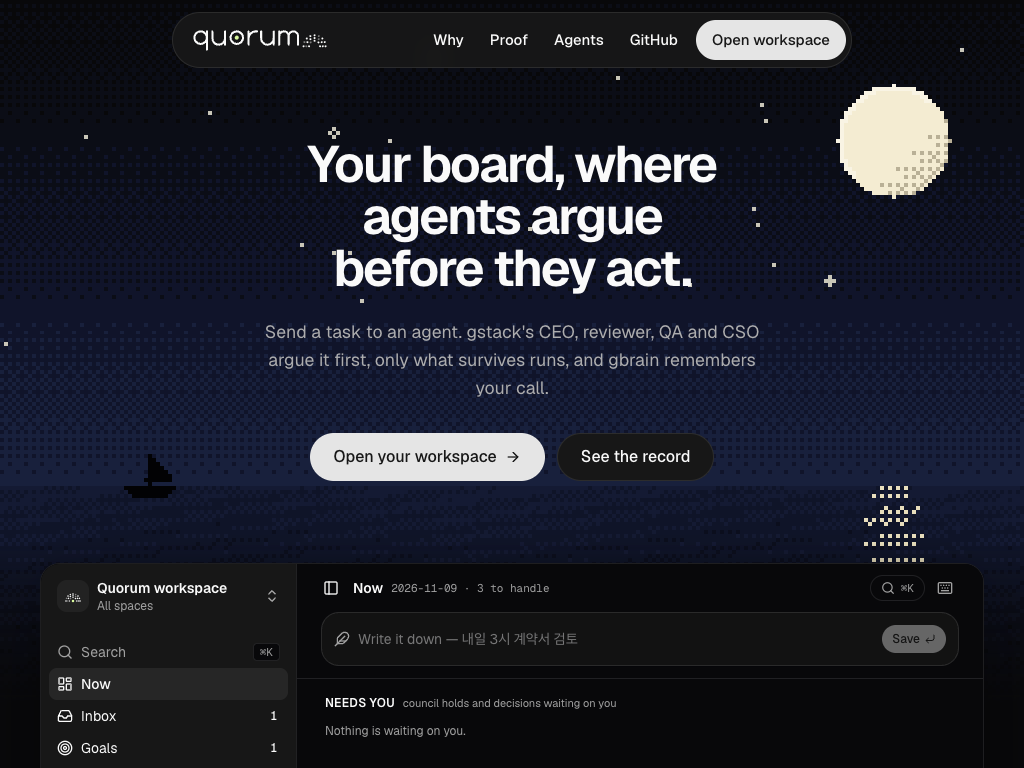
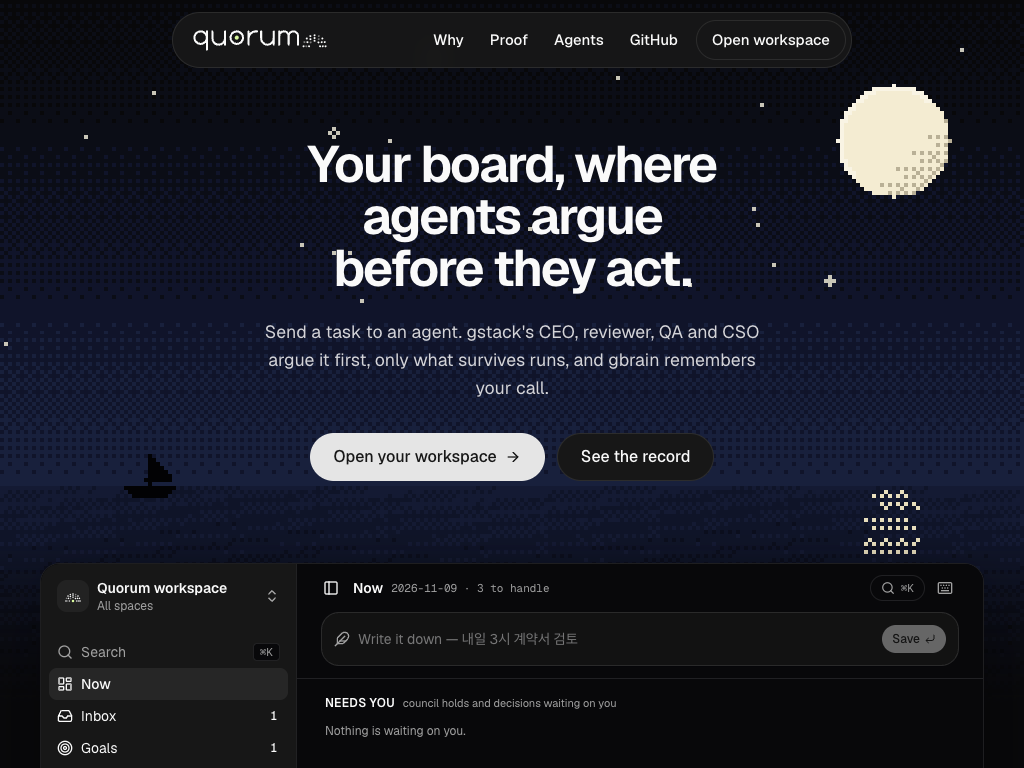
site: design review round 1 fixes: steps visible on phones, exact record numbers, one-tone recipe card, single ink CTA per viewport, tighter story runway, film beside the numbers

diff --git a/site/web/src/landing/healing.tsx b/site/web/src/landing/healing.tsx
@@ -1,42 +1,44 @@
-import { cn } from "@/lib/utils"
+import { CHIP } from "@/workspace/tone"
+
+// tone.ts LATE is red-400, tuned for the dark-only workspace; on the light landing it fails AA, so the landing uses
+// red-700 in light and red-400 in dark (measured by docs/design/audit/a11y.cjs).
+const LATE = "text-red-700 dark:text-red-400"
 
 // The luma-blasts recipe (src/recipes/defs/luma-blasts.json): v1 called event/get-posts, which now 404s.
 // The repair path below follows lane/recipes: detect, recall past repairs, re-explore in Aside, validate, save v2.
-const LINES: { tag: string; tone: string; text: string; ms: number }[] = [
-  { tag: "$", tone: "text-muted-foreground", text: "quorum recipe run luma-blasts", ms: 500 },
-  { tag: "recipe.run", tone: "text-muted-foreground", text: "v1 · GET api2.luma.com/event/get-posts?event_api_id=…", ms: 900 },
-  { tag: "recipe.broken", tone: "text-cut", text: "404 · verify failed: expected a non-empty array with id", ms: 1100 },
-  { tag: "recall", tone: "text-memory", text: "gbrain · past repairs on api2.luma.com", ms: 1000 },
-  { tag: "aside", tone: "text-live", text: "re-explore in the signed-in tab · watching network on luma.com/<event>", ms: 1500 },
-  { tag: "candidate", tone: "text-foreground", text: "GET api2.luma.com/event/get-blasts?event_api_id=…  200", ms: 1000 },
-  { tag: "verify", tone: "text-keep", text: "7 announcements · schema ok · non-empty ✓", ms: 900 },
-  { tag: "recipe.repaired", tone: "text-keep", text: "luma-blasts v2 saved · prev endpoint and reason kept", ms: 900 },
-  { tag: "memory.saved", tone: "text-memory", text: "gbrain remembers why v1 broke", ms: 900 },
+// One tone (DESIGN-READ hue budget): ink for what happened, muted for context, red only for the failure.
+type Tone = "ink" | "muted" | "fail"
+const TONE: Record<Tone, string> = { ink: "text-foreground", muted: "text-muted-foreground", fail: LATE }
+const LINES: { tag: string; tone: Tone; text: string }[] = [
+  { tag: "$", tone: "ink", text: "quorum recipe run luma-blasts" },
+  { tag: "recipe.run", tone: "muted", text: "v1 · GET api2.luma.com/event/get-posts?event_api_id=…" },
+  { tag: "recipe.broken", tone: "fail", text: "404 · verify failed: expected a non-empty array with id" },
+  { tag: "recall", tone: "muted", text: "gbrain · past repairs on api2.luma.com" },
+  { tag: "aside", tone: "muted", text: "re-explore in the signed-in tab · watching network on luma.com/<event>" },
+  { tag: "candidate", tone: "ink", text: "GET api2.luma.com/event/get-blasts?event_api_id=…  200" },
+  { tag: "verify", tone: "ink", text: "7 announcements · schema ok · non-empty" },
+  { tag: "recipe.repaired", tone: "ink", text: "luma-blasts v2 saved · prev endpoint and reason kept" },
+  { tag: "memory.saved", tone: "muted", text: "gbrain remembers why v1 broke" },
 ]
 
 export function Healing() {
-  // The whole transcript is always shown: a replay that cleared and retyped it left an empty box mid-scroll (audit c5).
-  const n = LINES.length
-  const done = n >= LINES.length
   return (
-    <div className="dark lp-float overflow-hidden rounded-[20px] border bg-[#050506] text-foreground">
+    <div className="lp-ring overflow-hidden rounded-2xl bg-card">
       <div className="flex items-center gap-2 border-b px-4 py-2.5 font-mono text-xs text-muted-foreground">
-        <span className="size-2.5 rounded-full bg-foreground/15" /><span className="size-2.5 rounded-full bg-foreground/15" /><span className="size-2.5 rounded-full bg-foreground/15" />
-        <span className="ml-2">recipe · luma-blasts</span>
-        <span className={cn("ml-auto rounded-full px-2 py-0.5 text-2xs", done ? "bg-keep/15 text-keep" : n >= 3 ? "bg-cut/15 text-cut" : "bg-muted")}>{done ? "v2 verified" : n >= 3 ? "repairing" : "v1"}</span>
+        <span>recipe · luma-blasts</span>
+        <span className={"ml-auto rounded-full px-2 py-0.5 text-2xs " + CHIP}>v2 verified</span>
       </div>
-      <ol className="min-h-[19rem] space-y-1.5 p-4 font-mono text-[12.5px] leading-relaxed sm:p-5">
-        {LINES.slice(0, n).map((l, i) => (
+      <ol className="space-y-1.5 p-4 font-mono text-[12.5px] leading-relaxed sm:p-5">
+        {LINES.map((l, i) => (
           <li key={i} className="grid grid-cols-[7.5rem_1fr] gap-3 max-sm:grid-cols-1 max-sm:gap-0">
-            <span className={cn(l.tone, l.tag === "$" && "text-signal")}>{l.tag}</span>
-            <span className={cn("break-words", l.tag === "$" ? "text-foreground" : l.tone)}>{l.text}</span>
+            <span className="text-muted-foreground">{l.tag}</span>
+            <span className={"break-words " + TONE[l.tone]}>{l.text}</span>
           </li>
         ))}
-        {!done && <li className="caret text-muted-foreground" aria-hidden />}
       </ol>
       <div className="border-t px-4 py-3 font-mono text-[12.5px] sm:px-5">
-        <p className="rounded-md bg-cut/10 px-3 py-1 text-cut">- GET /event/get-posts   404</p>
-        <p className={cn("mt-1 rounded-md px-3 py-1 transition-colors duration-500", done ? "bg-keep/10 text-keep" : "text-muted-foreground/40")}>+ GET /event/get-blasts  200 · 7 posts</p>
+        <p className={"rounded-md border border-red-700/50 dark:border-red-500/45 px-3 py-1 " + LATE}>- GET /event/get-posts   404</p>
+        <p className="mt-1 rounded-md border border-border px-3 py-1 text-foreground">+ GET /event/get-blasts  200 · 7 posts</p>
       </div>
     </div>
   )

diff --git a/site/web/src/landing/landing.tsx b/site/web/src/landing/landing.tsx
@@ -9,7 +9,6 @@ import { Healing } from "./healing"
 import { PixelSea } from "./pixel-sea"
 import { Story } from "./story"
 import { Judgment, RunsOn } from "./judgment"
-import { CountUp } from "./motion"
 import "./landing.css"
 
 // Design system: docs/design/DESIGN-READ.md and CONCEPT.md (concept B "product as stage" + A's provenance labels).
@@ -36,7 +35,7 @@ function Header() {
             <li className="max-md:hidden"><a className="lp-nav" href="#record">Proof</a></li>
             <li className="max-md:hidden"><a className="lp-nav" href="#agents">Agents</a></li>
             <li className="max-sm:hidden"><a className="lp-nav" href={REPO}>GitHub</a></li>
-            <li><a className="lp-nav ml-1 rounded-full bg-primary px-4 text-primary-foreground hover:bg-primary/90" href={WORKSPACE}>Open workspace</a></li>
+            <li><a className="lp-nav lp-ring ml-1 rounded-full px-4" href={WORKSPACE}>Open workspace</a></li>
           </ul>
         </nav>
       </div>
@@ -98,21 +97,21 @@ function Record() {
           <dl className="mt-6 grid grid-cols-3 gap-x-6">
             {facts.map((f) => (
               <div key={f.k} className="border-t pt-3 pb-4">
-                <dd className="num text-2xl font-semibold tracking-tight"><CountUp value={f.v} format={f.f} /></dd>
+                <dd className="num text-2xl font-semibold tracking-tight">{f.f ? f.f(f.v) : f.v}</dd>
                 <dt className="mt-0.5 text-sm text-muted-foreground">{f.k}</dt>
               </div>
             ))}
           </dl>
+          <figure className="m-0 mt-4">
+            <video className="aspect-video w-full rounded-2xl border border-[var(--lp-ring)] bg-card" controls playsInline preload="none" poster={DEMO.poster} src={DEMO.src}>
+              <a href={DEMO.src}>Download the demo video</a>
+            </video>
+            <figcaption className="mt-2 text-sm text-muted-foreground">The {DEMO.seconds}-second submission film, cut from captures of real runs.</figcaption>
+          </figure>
           {STATIC && <a className="lp-text-link mt-2 inline-flex min-h-11 items-center gap-1.5 font-semibold underline-offset-4 hover:underline" href={APP + "?demo=seoul"}>Replay it in the console</a>}
         </div>
         <div className="lp-artifact">
           <Argument />
-          <figure className="m-0 mt-3">
-            <video className="aspect-video w-full rounded-2xl border border-[var(--lp-ring)] bg-card" controls playsInline preload="none" poster={DEMO.poster} src={DEMO.src}>
-              <a href={DEMO.src}>Download the demo video</a>
-            </video>
-            <figcaption className="lp-label mt-2">The {DEMO.seconds}-second submission film, cut from captures of real runs.</figcaption>
-          </figure>
         </div>
       </div>
     </section>
@@ -158,7 +157,7 @@ function Cta() {
   return (
     <section aria-labelledby="cta-title" className="lp-section">
       <div className="lp-container flex flex-col items-center text-center">
-        <h2 id="cta-title" className="lp-h1 max-w-[18ch] text-[clamp(2rem,1rem+2.4vw,3.25rem)]">Bring a request. Leave with a verdict.</h2>
+        <h2 id="cta-title" className="lp-h1 max-w-[18ch]">Bring a request. Leave with a verdict.</h2>
         <p className="mx-auto mt-5 max-w-[52ch] text-muted-foreground">Your workspace runs your own council after sign-in. The source, the recorded run and this page are public.</p>
         <div className="mt-8 flex flex-wrap justify-center gap-3">
           <a className={primary} href={WORKSPACE}>Open your workspace <ArrowRight className="size-4" /></a>

diff --git a/site/web/src/landing/story.tsx b/site/web/src/landing/story.tsx
@@ -234,11 +234,11 @@ export function Story() {
     return () => { cancelAnimationFrame(raf); window.removeEventListener("scroll", on); window.removeEventListener("resize", on) }
   }, [reduced])
   return (
-    <section ref={section} id="story" aria-labelledby="story-title" className={cn("relative", reduced ? "lp-section" : "h-[170svh] lg:h-[185svh]")}>
-      <div className={cn("lp-container", !reduced && "sticky top-0 flex h-svh flex-col justify-center pt-20 pb-6")}>
+    <section ref={section} id="story" aria-labelledby="story-title" className={cn("relative", reduced ? "lp-section" : "h-[150svh] lg:h-[160svh]")}>
+      <div className={cn("lp-container", !reduced && "sticky top-0 flex h-svh flex-col justify-center pt-16 pb-4")}>
         <div className="lp-ca items-center">
           <div className="lg:col-span-4 lg:col-start-1">
-            <p className="font-mono text-sm tracking-tight text-foreground">Too many cooks spoil the broth.</p>
+            <p className="text-base font-medium text-foreground">Too many cooks spoil the broth.</p>
             <p className="mt-1 text-xs text-muted-foreground">In Korea they say: too many boatmen steer the ship up a mountain. <span lang="ko" className="whitespace-nowrap">사공이 많으면 배가 산으로 간다</span></p>
             <h2 id="story-title" className="lp-h2 mt-4">More agents, one direction.</h2>
             <p className="mt-4 text-muted-foreground max-lg:hidden">
@@ -247,14 +247,14 @@ export function Story() {
             </p>
             <ol className="mt-5 flex flex-col gap-1 lg:mt-7">
               {STORY_STEPS.map((s, i) => (
-                <li key={s.title} className={cn("border-l-2 py-1.5 pl-4 transition-[color,border-color] duration-300", reduced ? "border-foreground/30" : i === step ? "border-foreground" : "border-transparent [&>p:first-child]:text-muted-foreground", !reduced && i !== step && "max-lg:hidden")} aria-current={i === step ? "step" : undefined}>
+                <li key={s.title} className={cn("border-l-2 py-1.5 pl-4 transition-[color,border-color] duration-300", reduced ? "border-foreground/30" : i === step ? "border-foreground" : "border-transparent [&>p:first-child]:text-muted-foreground")} aria-current={i === step ? "step" : undefined}>
                   <p className="font-semibold"><span className="num mr-2 text-xs text-muted-foreground">0{i + 1}</span>{s.title}</p>
-                  <p className="mt-0.5 text-sm text-muted-foreground">{s.body}</p>
+                  <p className="mt-0.5 text-sm text-muted-foreground max-lg:text-[13px] max-lg:leading-snug">{s.body}</p>
                 </li>
               ))}
             </ol>
           </div>
-          <div className="relative h-[42svh] overflow-hidden rounded-2xl border border-[var(--lp-ring)] lg:col-span-8 lg:col-start-5 lg:h-[min(64svh,560px)]">
+          <div className="relative h-[30svh] overflow-hidden rounded-2xl border border-[var(--lp-ring)] lg:col-span-8 lg:col-start-5 lg:h-[min(64svh,560px)]">
             <StorySea progress={progress} label={label} chips={chips} />
             <span ref={label} aria-hidden className="absolute top-3 left-3 max-w-[calc(100%-1.5rem)] rounded-full bg-background/85 px-2.5 py-1 font-mono text-2xs text-foreground backdrop-blur" />
             <div aria-hidden className="pointer-events-none absolute top-[24%] left-[60%] flex -translate-x-1/2 gap-1.5">

diff --git a/site/web/src/landing/motion.tsx b/site/web/src/landing/motion.tsx
@@ -1,46 +1,4 @@
 import { useEffect, useRef, useState } from "react"
-import { useReducedMotion } from "@/components/reveal"
-import { cn } from "@/lib/utils"
-
-/** Calls back once, the moment the element's first pixel enters the viewport. Content is visible before that. */
-export function useFirstSight<T extends Element>(onSight: (el: T) => void) {
-  const ref = useRef<T | null>(null)
-  const cb = useRef(onSight)
-  cb.current = onSight
-  useEffect(() => {
-    const el = ref.current
-    if (!el || typeof IntersectionObserver === "undefined") return
-    // already on screen at mount: leave it alone, it is being read
-    if (el.getBoundingClientRect().top < window.innerHeight) return
-    const io = new IntersectionObserver((es) => { if (es.some((e) => e.isIntersecting)) { io.disconnect(); cb.current(el) } }, { threshold: 0 })
-    io.observe(el)
-    return () => io.disconnect()
-  }, [])
-  return ref
-}
-
-/** Short entrance (0.35 s fade and 10 px rise) layered on visible content the first time it scrolls into view. */
-export function Rise({ children, className, as: Tag = "div" }: { children: React.ReactNode; className?: string; as?: "div" | "li" | "section" }) {
-  const reduced = useReducedMotion()
-  const ref = useFirstSight<HTMLDivElement>((el) => { if (!reduced) el.classList.add("lp-rise-in") })
-  return <Tag ref={ref as never} className={cn(className)}>{children}</Tag>
-}
-
-/** Shows the real value; replays a count-up once when it scrolls into view. Reduced motion never counts. */
-export function CountUp({ value, format = String }: { value: number; format?: (n: number) => string }) {
-  const reduced = useReducedMotion()
-  const [n, setN] = useState(value)
-  const raf = useRef(0)
-  const ref = useFirstSight<HTMLSpanElement>(() => {
-    if (reduced) return
-    const t0 = performance.now(), dur = 700
-    const tick = (now: number) => { const p = Math.min(1, (now - t0) / dur); setN(Math.round(value * (1 - Math.pow(1 - p, 3)))); if (p < 1) raf.current = requestAnimationFrame(tick) }
-    raf.current = requestAnimationFrame(tick)
-  })
-  useEffect(() => () => cancelAnimationFrame(raf.current), [])
-  useEffect(() => { setN(value) }, [value])
-  return <span ref={ref} className="tnum">{format(n)}</span>
-}
 
 /** Index of the last list item whose top has passed 60% of the viewport, for scroll-driven step lists. */
 export function useScrollStep(count: number) {

diff --git a/site/web/src/landing/landing.css b/site/web/src/landing/landing.css
@@ -48,8 +48,8 @@ html:not(.dark) { color-scheme: light; }
 .lp-ring { box-shadow: inset 0 0 0 1px var(--lp-ring); }
 .lp-float { box-shadow: inset 0 0 0 1px var(--lp-ring), 0 24px 60px -12px var(--lp-shadow); }
 .lp-nav { display: inline-flex; align-items: center; min-height: 40px; padding: 0 12px; border-radius: 9999px; font-size: 0.9375rem; font-weight: 500; transition: background-color 150ms ease; }
-.lp-nav:not(.bg-primary) { color: var(--foreground); }
-.lp-nav:not(.bg-primary):hover { background: var(--muted); }
+.lp-nav { color: var(--foreground); }
+.lp-nav:hover { background: var(--muted); }
 .lp-text-link::after { content: "→"; transition: transform 150ms ease; }
 .lp-text-link:hover::after { transform: translateX(2px); }
 .lp-skip { position: absolute; top: 8px; left: 8px; z-index: 50; padding: 10px 16px; border-radius: 9999px; background: var(--primary); color: var(--primary-foreground); font-weight: 600; transform: translateY(-160%); }

diff --git a/docs/design/audit/AUDIT.md b/docs/design/audit/AUDIT.md
@@ -133,3 +133,26 @@ about 7.9:1 (light) and #d4d4d8 on #18203c about 10.7:1 (dark).
 Open: none of S1-S2. Not verified: axe-core (not installed here; contrast and focus were measured by script
 instead), real Safari/iOS, the workspace preview's own focus order inside the iframe.
 
+
+
+## 9. Fresh design review (round 1, hyds/deepseek-v4.1-flash-1m) and responses
+
+Verdict received: CHANGES REQUESTED. Each finding, the decision and the evidence:
+
+| Finding | Sev | Decision | Evidence after the fix |
+|---|---|---|---|
+| R1 story steps 02/03 `display:none` below 1024 (information by scrub alone) | S2 | accepted | story.tsx: steps always rendered, active marked by rule and ink; after/crop__story__390__light.png shows 01-03 |
+| R2 record numbers captured mid count-up (2/8/1m 30s) | S2 | accepted | CountUp removed from Record (values render final: 3 / 12 / 1 / 1 / 1 / 2m 32s from SEOUL_STATS); crop__record__1280__dark.png; CountUp, Rise, useFirstSight deleted from motion.tsx (no importers) |
+| R3 recipe terminal: second floating shadow, 5 hues | S3 | accepted | healing.tsx: lp-ring card, no shadow, ink/muted plus red for the 404 only; crop__recipes__1280__light.png. Red is red-700 in light (red-400 failed AA on the light card) |
+| R4 two ink fills in the first viewport | S3 | accepted | header "Open workspace" is now a ring; one ink CTA in the hero; landing__firstviewport__1280__light.png |
+| R5 Story to Record gap larger than 154 px | S3 | accepted | runway 185svh -> 160svh (150svh below 1024), sticky padding trimmed, scene 30svh on phones; page 7,555 -> 6,959 px at 1280 |
+| R6 film buried far down the proof column | S3 | accepted | film moved into the claim column under the six numbers, so it sits next to the critics at the top of Record |
+| R7 mono proverb reads as a second eyebrow | S4 | accepted | proverb set in the sans at L4 medium; mono kept for provenance labels |
+| R8 closing headline overrides L1 | S4 | accepted | CTA uses lp-h1 as locked |
+| R9 flow-step logos (`Logo size="sm"`) under 24 px | S4 | rebutted | GAP-6 and IS-4 cover the agent flags (24 px, unaltered). The flow-step marks are inline credits beside a heading at text size (16-20 px) and repeat logos shown full size in Runs on; no ideal-state statement covers them |
+
+Re-verification at the fix head: a11y.cjs now resolves every CSS color (oklch, color-mix) by painting a pixel, so
+the earlier zero-failure result is re-measured: 161 text nodes per theme, 0 below AA in light and dark. No
+overflow at 1280/1024/768/390, no console errors, 1 eyebrow, sections hero 1,328 / story 1,280 / record 1,175 /
+judgment 875 / recipes 798 / runs on 913 / CTA 426 px. Page height 6,959 px at 1280, 9,287 px at 390.
+
